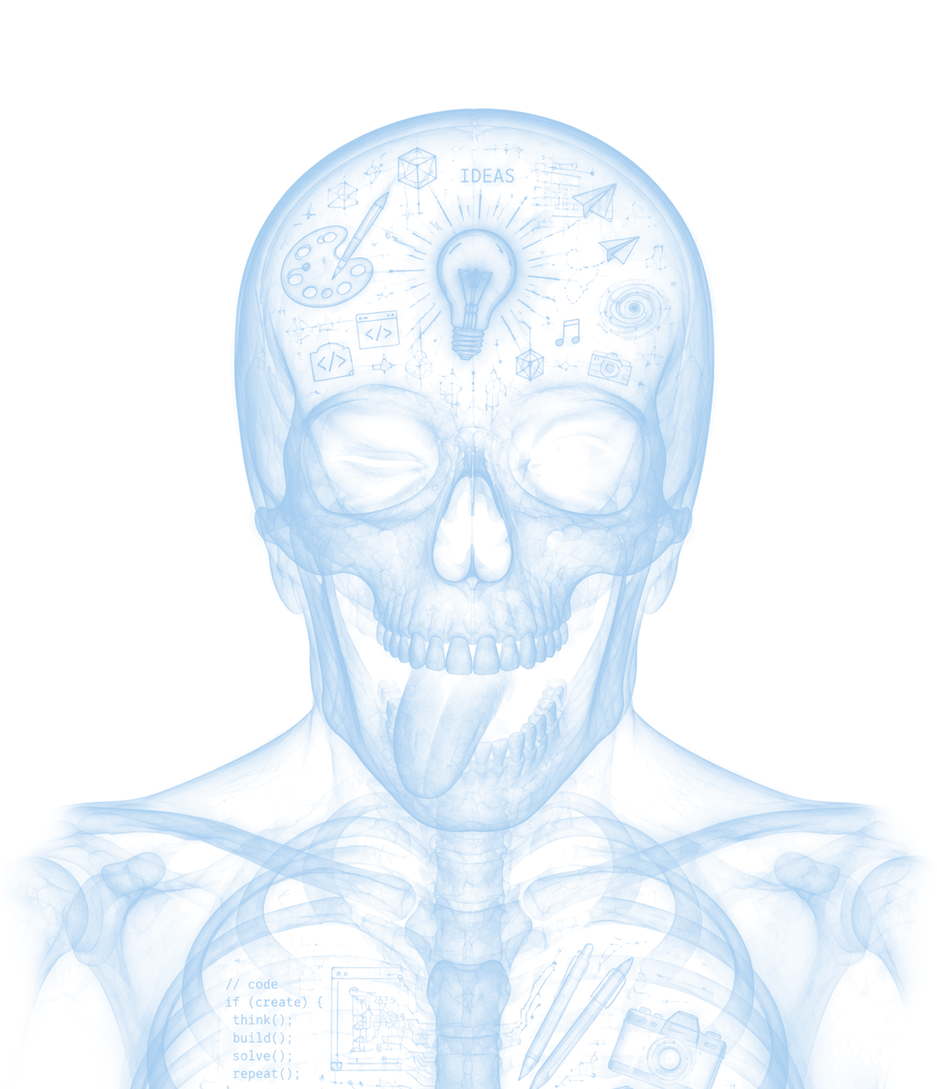
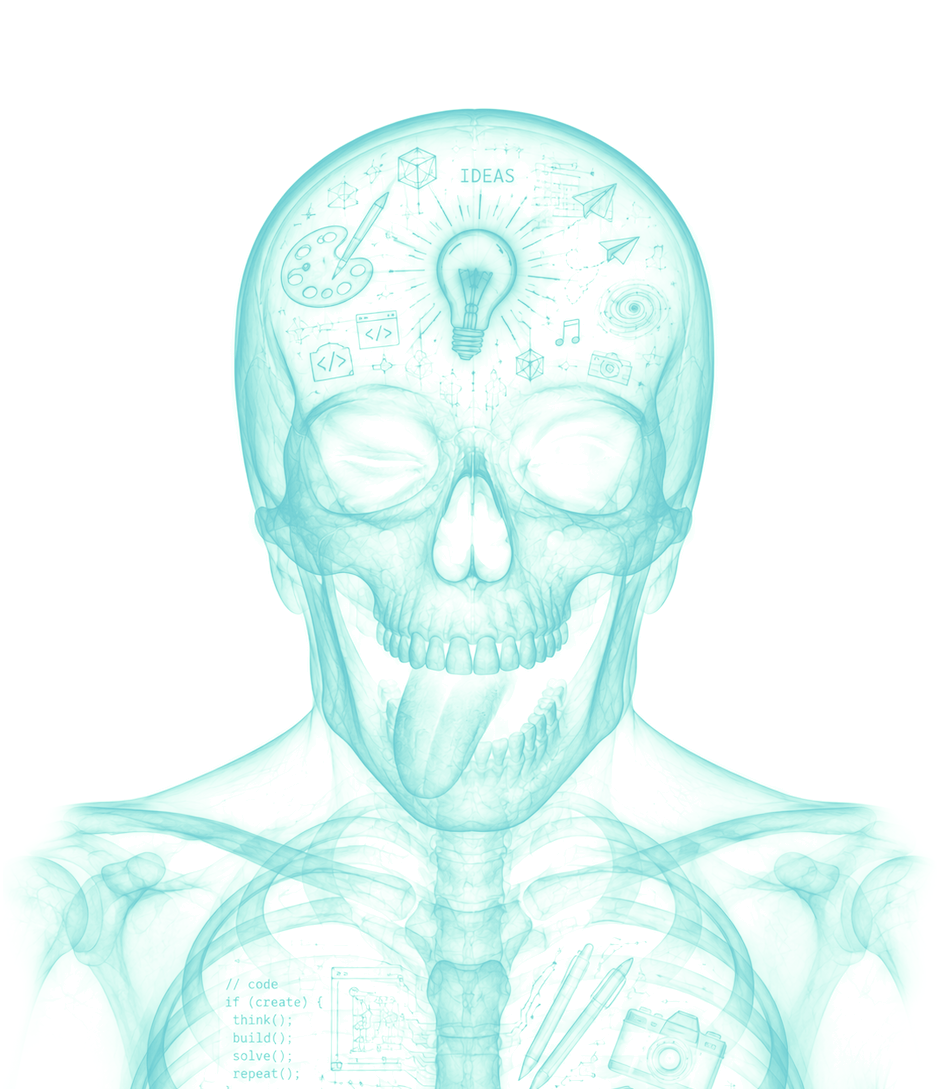
Refine homepage collections and portfolio content

diff --git a/src/styles/home-creative-pass.css b/src/styles/home-creative-pass.css
@@ -1173,6 +1173,47 @@
   }
 }
 
+/* Three-item collections fill the desktop row. Horizontal browsing remains a mobile pattern. */
+@media (min-width: 56rem) {
+  .home-studio .collection-drawer .project-composition {
+    display: grid;
+    grid-template-columns: repeat(3, minmax(0, 1fr));
+    align-items: stretch;
+    padding: var(--space-3);
+    overflow: visible;
+    gap: var(--space-4);
+    scroll-snap-type: none;
+  }
+  .home-studio .collection-drawer .three-up .related-projects { display: contents; }
+  .home-studio .collection-drawer .three-up .primary-project,
+  .home-studio .collection-drawer .three-up .related-project,
+  .home-studio .collection-drawer .playground-project {
+    display: block;
+    width: auto;
+    min-width: 0;
+    height: auto;
+    flex: none;
+    aspect-ratio: auto;
+  }
+  .home-studio .collection-drawer .three-up .primary-media,
+  .home-studio .collection-drawer .three-up .related-media,
+  .home-studio .collection-drawer .playground-project .project-media {
+    width: 100%;
+    height: auto;
+    aspect-ratio: 5 / 3;
+  }
+  .home-studio .collection-drawer .three-up .primary-media { grid-area: auto; }
+  .home-studio .collection-drawer .three-up .primary-copy,
+  .home-studio .collection-drawer .three-up .related-copy {
+    height: auto;
+    min-height: 26rem;
+  }
+  .home-studio .collection-drawer .playground-project .project-copy {
+    height: auto;
+    min-height: 22rem;
+  }
+}
+
 @media (max-width: 34rem) {
   .home-studio .employer-lockup { flex-direction: column; padding-block: var(--space-4); gap: var(--space-2); text-align: center; }
   .home-studio .work-group { margin-inline: calc(var(--space-2) * -1); }
